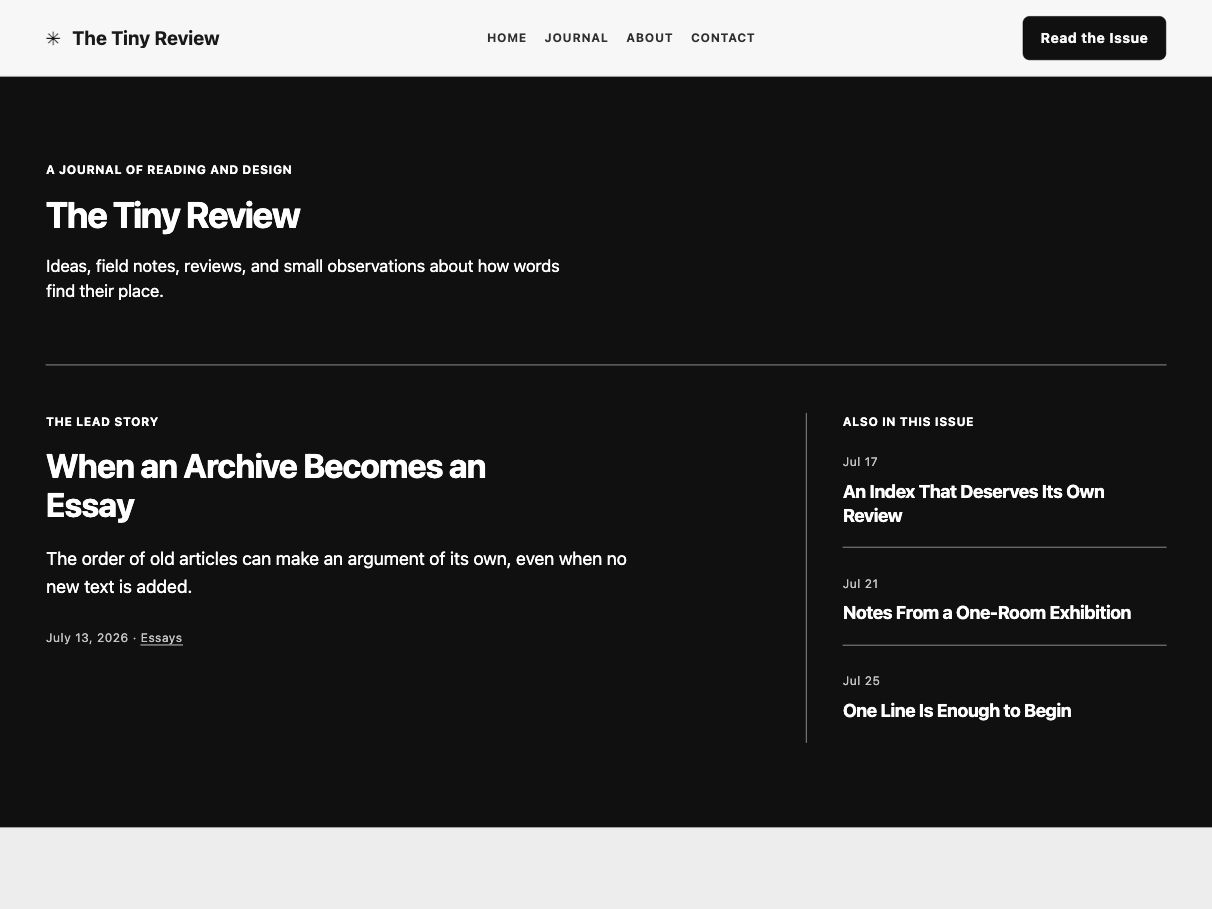
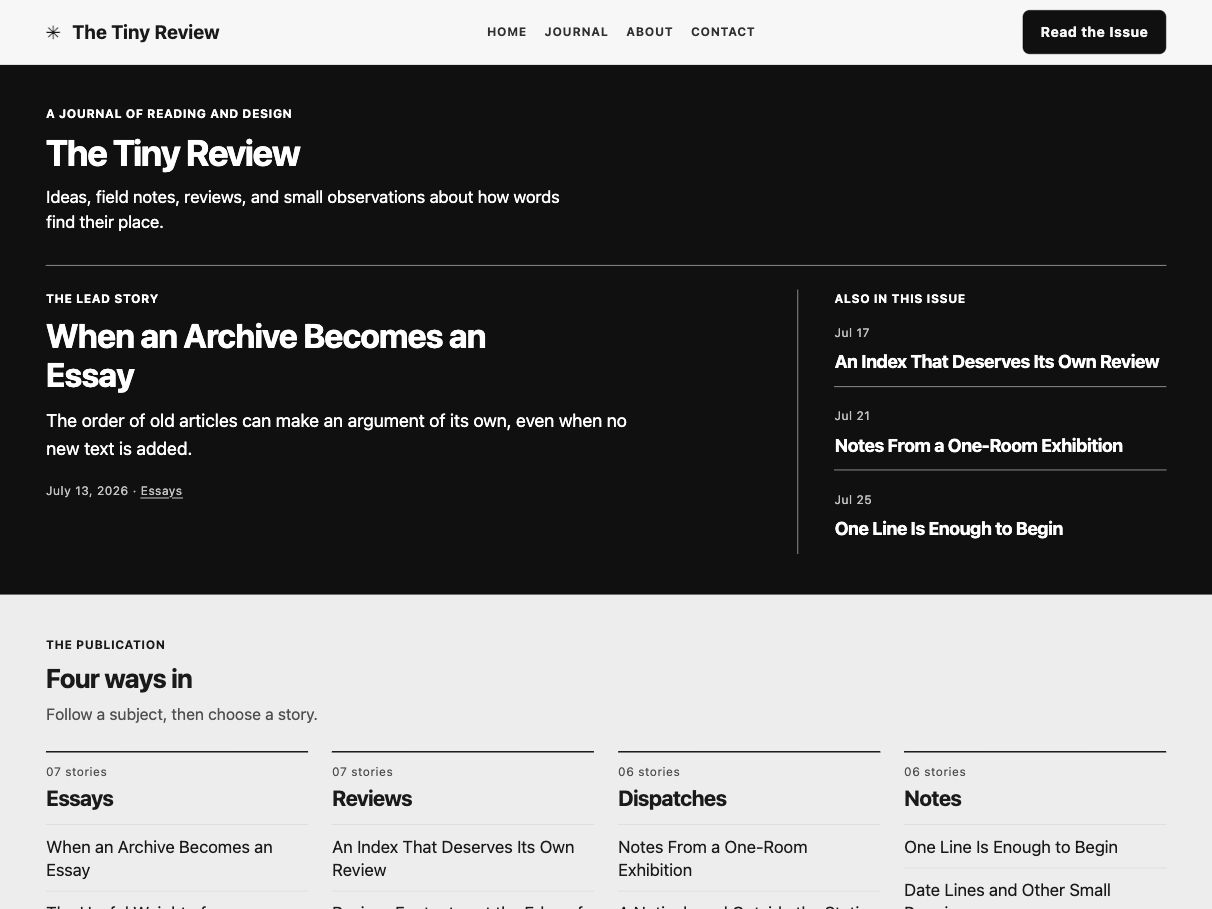
Tighten Classic editorial spacing

diff --git a/style.css b/style.css
@@ -1,7 +1,7 @@
 /*
 Theme Name: Editorial Classic
 Description: A text-only classic editorial theme with black, white, and grey typography and nine article-led home sections.
-Version: 1.4.2
+Version: 1.4.3
 Author: bin zhan
 Text Domain: editorialclassic
 Domain Path: /languages
@@ -35,8 +35,8 @@ Tags: blog, education, news, custom-menu, footer-widgets, right-sidebar, threade
 	--tec-gutter: clamp(1.25rem, 4vw, 2rem);
 	--tec-container: 1120px;
 	--tec-content: 700px;
-	--tec-section: clamp(1.75rem, 4vw, 2.75rem);
-	--tec-section-tight: clamp(1rem, 2.5vw, 1.75rem);
+	--tec-section: clamp(1.25rem, 2.7vw, 2rem);
+	--tec-section-tight: clamp(.85rem, 1.8vw, 1.3rem);
 	--tec-radius-sm: 3px;
 	--tec-radius-md: 7px;
 	--tec-radius-lg: 8px;
@@ -87,7 +87,7 @@ small, .entry-meta, .entry-footer, .breadcrumbs, .editorial-kicker { font-size: 
 	5. Header / navigation
 ---------------------------------------------------------------------------- */
 .site-header { position: sticky; top: 0; z-index: 900; background: rgba(247,247,247,.94); border-bottom: 1px solid var(--tec-rule); backdrop-filter: blur(10px); }
-.header-inner { height: 76px; display: flex; align-items: center; justify-content: space-between; gap: 1.2rem; position: relative; }
+.header-inner { height: 64px; display: flex; align-items: center; justify-content: space-between; gap: 1.2rem; position: relative; }
 .site-logo { display: inline-flex; align-items: center; gap: .72rem; min-width: 0; color: var(--tec-ink); text-decoration: none; font-size: 1.2rem; white-space: nowrap; }
 .site-logo-text { min-width: 0; overflow: hidden; color: inherit; text-decoration: none; text-overflow: ellipsis; white-space: nowrap; }
 .custom-logo-link { display: inline-flex; align-items: center; }
@@ -112,7 +112,7 @@ small, .entry-meta, .entry-footer, .breadcrumbs, .editorial-kicker { font-size: 
 .mobile-toggle.is-open span:nth-child(3) { transform: translateY(-7px) rotate(-45deg); }
 
 @media (max-width: 1120px) {
-	.header-inner { height: 66px; }
+	.header-inner { height: 60px; }
 	html.no-js .header-inner { height: auto; flex-wrap: wrap; padding-block: .85rem; }
 	html.no-js .primary-menu { flex-basis: 100%; order: 3; }
 	html.js .mobile-toggle { display: inline-flex; position: relative; z-index: 1220; }
@@ -205,11 +205,11 @@ small, .entry-meta, .entry-footer, .breadcrumbs, .editorial-kicker { font-size: 
 .widget .wp-block-search__input { min-width: 0; }
 .widget .wp-block-search__button { margin-left: 0; }
 .footer-widget-grid .widget li { border-bottom-color: rgba(255,255,255,.12); }
-.site-footer { background: var(--tec-black); color: var(--tec-white); margin-top: var(--tec-section); }
-.footer-main { padding: clamp(3rem, 6vw, 5rem) 0 2rem; }
+.site-footer { background: var(--tec-black); color: var(--tec-white); margin-top: 0; }
+.footer-main { padding: clamp(2rem, 3.5vw, 3rem) 0 1.5rem; }
 .footer-grid { display: grid; grid-template-columns: 2fr 1fr 1fr; gap: clamp(1.8rem, 4vw, 3.5rem); }
 .footer-widget-grid { display: grid; grid-template-columns: 1.2fr 1fr 1fr; gap: clamp(1.8rem, 4vw, 3.5rem); }
-.footer-widget-area { margin-top: 3rem; padding-top: 2rem; border-top: 1px solid rgba(255,255,255,.14); }
+.footer-widget-area { margin-top: 2rem; padding-top: 1.5rem; border-top: 1px solid rgba(255,255,255,.14); }
 .footer-brand-name, .footer-col-title, .footer-label, .footer-widget-grid .widget-title { color: var(--tec-white); }
 .footer-brand-desc, .footer-address, .footer-links a, .footer-nav a, .footer-widget-grid .widget, .footer-widget-grid a, .footer-contact-link { color: rgba(247,247,247,.82); }
 .footer-links ul, .footer-nav ul, .social-navigation ul { list-style: none; margin: 0; padding: 0; }
@@ -1346,7 +1346,7 @@ html, body { max-width: 100%; overflow-x: hidden; }
 	--story-cover: #101010;
 	--story-cover-ink: #fff;
 }
-.home-showcase .editorial-section { padding-block: clamp(4rem, 7vw, 7rem); }
+.home-showcase .editorial-section { padding-block: clamp(2.25rem, 3.4vw, 3rem); }
 .home-showcase .editorial-section__inner { min-width: 0; }
 .home-showcase .story-departments,
 .home-showcase .story-conversation { background: #ededed; }
@@ -1371,77 +1371,77 @@ html, body { max-width: 100%; overflow-x: hidden; }
 .home-showcase a { color: inherit; text-decoration: none; }
 .home-showcase a:hover { color: var(--story-accent); text-decoration: underline; text-underline-offset: .16em; }
 .story-kicker, .story-meta, .story-number, .story-department__count { font-size: .75rem; line-height: 1.4; letter-spacing: .045em; }
-.story-kicker { margin: 0 0 1rem; color: var(--story-accent); font-weight: 700; text-transform: uppercase; }
+.story-kicker { margin: 0 0 .6rem; color: var(--story-accent); font-weight: 700; text-transform: uppercase; }
 .story-meta, .story-department__count { color: var(--tec-muted); }
 .story-meta a { color: inherit; text-decoration: underline; text-underline-offset: .15em; }
 .story-number { color: var(--story-accent); font-weight: 700; font-variant-numeric: tabular-nums; }
-.story-section-head { max-width: 48rem; margin: 0 0 clamp(2rem, 4vw, 3.5rem); }
+.story-section-head { max-width: 48rem; margin: 0 0 clamp(1.25rem, 2vw, 2rem); }
 .story-section-head h2 { font-size: clamp(1.55rem, 2.2vw, 1.9rem); line-height: 1.15; }
-.story-section-head > p:last-child { max-width: 55ch; margin: .9rem 0 0; color: var(--tec-muted); font-size: 1rem; line-height: 1.55; }
+.story-section-head > p:last-child { max-width: 55ch; margin: .55rem 0 0; color: var(--tec-muted); font-size: 1rem; line-height: 1.55; }
 .story-cover { background: var(--story-cover); color: var(--story-cover-ink); }
-.story-cover__masthead { max-width: 55rem; padding-bottom: clamp(2.5rem, 5vw, 4rem); }
+.story-cover__masthead { max-width: 55rem; padding-bottom: clamp(1.5rem, 2.5vw, 2.25rem); }
 .story-cover__masthead h1 { font-size: clamp(2rem, 3vw, 2.5rem); line-height: 1.1; letter-spacing: -.035em; }
-.story-cover__masthead > p:last-child { max-width: 50ch; margin: 1.2rem 0 0; font-size: clamp(1rem, 1.4vw, 1.1rem); line-height: 1.5; }
-.story-cover__grid { display: grid; grid-template-columns: minmax(0, 1.65fr) minmax(15rem, .85fr); gap: clamp(2rem, 5vw, 5rem); border-top: 1px solid currentColor; padding-top: clamp(2rem, 4vw, 3rem); }
+.story-cover__masthead > p:last-child { max-width: 50ch; margin: .75rem 0 0; font-size: clamp(1rem, 1.4vw, 1.1rem); line-height: 1.5; }
+.story-cover__grid { display: grid; grid-template-columns: minmax(0, 1.65fr) minmax(15rem, .85fr); gap: clamp(1.5rem, 3vw, 3rem); border-top: 1px solid currentColor; padding-top: clamp(1.25rem, 2vw, 1.75rem); }
 .story-cover__lead h2 { max-width: 22ch; font-size: clamp(1.75rem, 2.8vw, 2.1rem); line-height: 1.15; }
-.story-cover__lead > p:not(.story-kicker) { max-width: 52ch; margin: 1.35rem 0; font-size: 1.125rem; line-height: 1.55; }
+.story-cover__lead > p:not(.story-kicker) { max-width: 52ch; margin: .8rem 0; font-size: 1.125rem; line-height: 1.55; }
 .story-cover .story-meta { color: inherit; opacity: .75; }
 .story-cover__rail { border-left: 1px solid currentColor; padding-left: clamp(1.5rem, 3vw, 2.5rem); }
-.story-cover__rail article { padding: 1.25rem 0; border-top: 1px solid currentColor; }
+.story-cover__rail article { padding: .8rem 0; border-top: 1px solid currentColor; }
 .story-cover__rail article:first-of-type { border-top: 0; padding-top: 0; }
 .story-cover__rail h3 { margin-top: .35rem; font-size: clamp(1rem, 1.5vw, 1.2rem); line-height: 1.3; }
-.story-departments__grid { display: grid; grid-template-columns: repeat(4, minmax(0, 1fr)); gap: clamp(1.2rem, 3vw, 2rem); }
-.story-department { border-top: 2px solid var(--story-accent); padding-top: 1rem; min-width: 0; }
-.story-department__count { margin: 0 0 .7rem; }
+.story-departments__grid { display: grid; grid-template-columns: repeat(4, minmax(0, 1fr)); gap: clamp(1rem, 2vw, 1.5rem); }
+.story-department { border-top: 2px solid var(--story-accent); padding-top: .7rem; min-width: 0; }
+.story-department__count { margin: 0 0 .4rem; }
 .story-department h3 { font-size: 1.35rem; }
-.story-department ol { list-style: none; margin: 1.5rem 0 0; padding: 0; }
-.story-department li { border-top: 1px solid var(--tec-rule); padding: .85rem 0; line-height: 1.38; }
-.story-dossier__grid { display: grid; grid-template-columns: minmax(0, 1.2fr) minmax(0, 1fr); gap: clamp(2rem, 5vw, 5rem); }
-.story-dossier__feature { border-top: 3px solid var(--story-accent); padding-top: 1.2rem; }
-.story-dossier__feature h3 { max-width: 22ch; margin: .8rem 0 1rem; font-size: clamp(1.55rem, 2.5vw, 1.9rem); line-height: 1.2; }
+.story-department ol { list-style: none; margin: .9rem 0 0; padding: 0; }
+.story-department li { border-top: 1px solid var(--tec-rule); padding: .6rem 0; line-height: 1.38; }
+.story-dossier__grid { display: grid; grid-template-columns: minmax(0, 1.2fr) minmax(0, 1fr); gap: clamp(1.5rem, 3vw, 3rem); }
+.story-dossier__feature { border-top: 3px solid var(--story-accent); padding-top: .8rem; }
+.story-dossier__feature h3 { max-width: 22ch; margin: .55rem 0 .65rem; font-size: clamp(1.55rem, 2.5vw, 1.9rem); line-height: 1.2; }
 .story-dossier__feature p { max-width: 48ch; margin: 0; font-size: 1.0625rem; }
-.story-dossier__related article { display: grid; grid-template-columns: 2rem minmax(0, 1fr); gap: 1rem; border-top: 1px solid var(--tec-rule-strong); padding: 1rem 0; }
+.story-dossier__related article { display: grid; grid-template-columns: 2rem minmax(0, 1fr); gap: .7rem; border-top: 1px solid var(--tec-rule-strong); padding: .7rem 0; }
 .story-dossier__related h3 { font-size: 1.125rem; line-height: 1.28; }
 .story-dossier__related p { margin: .35rem 0 0; color: var(--tec-muted); font-size: .9375rem; }
 .story-reviews__grid { display: grid; grid-template-columns: repeat(3, minmax(0, 1fr)); gap: clamp(1.3rem, 3vw, 2.5rem); }
-.story-reviews__grid article { min-width: 0; border-top: 1px solid var(--tec-ink); padding-top: 1rem; }
-.story-reviews__grid h3 { margin: 1rem 0 .8rem; font-size: clamp(1.2rem, 1.8vw, 1.5rem); line-height: 1.25; }
-.story-reviews__grid article > p { min-height: 5.2em; margin: 0 0 1.25rem; color: var(--tec-ink-soft); }
+.story-reviews__grid article { min-width: 0; border-top: 1px solid var(--tec-ink); padding-top: .7rem; }
+.story-reviews__grid h3 { margin: .6rem 0 .5rem; font-size: clamp(1.2rem, 1.8vw, 1.5rem); line-height: 1.25; }
+.story-reviews__grid article > p { min-height: 4.2em; margin: 0 0 .8rem; color: var(--tec-ink-soft); }
 .story-dispatches__list, .story-route__list, .story-archive__list { list-style: none; margin: 0; padding: 0; }
 .story-dispatches__list { max-width: 60rem; border-top: 1px solid var(--tec-rule-strong); }
-.story-dispatches__list li { display: grid; grid-template-columns: 5rem minmax(0, 1fr) 2rem; gap: clamp(1rem, 3vw, 2.5rem); align-items: baseline; border-bottom: 1px solid var(--tec-rule-strong); padding: 1.35rem 0; }
+.story-dispatches__list li { display: grid; grid-template-columns: 5rem minmax(0, 1fr) 2rem; gap: clamp(1rem, 2vw, 1.75rem); align-items: baseline; border-bottom: 1px solid var(--tec-rule-strong); padding: .85rem 0; }
 .story-dispatches__list time { font-size: .875rem; font-weight: 700; white-space: nowrap; }
 .story-dispatches__list h3 { font-size: clamp(1.05rem, 1.5vw, 1.3rem); }
 .story-dispatches__list p { margin: .4rem 0 0; color: var(--tec-muted); font-size: .9375rem; }
 .story-dispatches__list li > span:last-child { color: var(--story-accent); text-align: right; }
 .story-notes__grid { display: grid; grid-template-columns: repeat(3, minmax(0, 1fr)); gap: 0 clamp(1.5rem, 3vw, 3rem); }
-.story-notes__grid article { min-width: 0; border-top: 1px solid var(--tec-rule-strong); padding: 1.25rem 0 1.75rem; }
-.story-notes__grid h3 { margin: 1rem 0 .55rem; font-size: 1.2rem; line-height: 1.25; }
+.story-notes__grid article { min-width: 0; border-top: 1px solid var(--tec-rule-strong); padding: .8rem 0 1rem; }
+.story-notes__grid h3 { margin: .6rem 0 .4rem; font-size: 1.2rem; line-height: 1.25; }
 .story-notes__grid p { margin: 0; color: var(--tec-muted); font-size: .9375rem; }
 .story-conversation__grid { display: grid; grid-template-columns: repeat(2, minmax(0, 1fr)); gap: clamp(1.5rem, 4vw, 4rem); }
-.story-conversation__grid article { border-top: 2px solid var(--story-accent); padding-top: 1.2rem; }
-.story-conversation__grid h3 { max-width: 24ch; margin: .7rem 0 1rem; font-size: clamp(1.45rem, 2.2vw, 1.8rem); line-height: 1.2; }
+.story-conversation__grid article { border-top: 2px solid var(--story-accent); padding-top: .8rem; }
+.story-conversation__grid h3 { max-width: 24ch; margin: .5rem 0 .65rem; font-size: clamp(1.45rem, 2.2vw, 1.8rem); line-height: 1.2; }
 .story-conversation__grid p { max-width: 44ch; margin: 0; }
 .story-route__list { max-width: 54rem; counter-reset: route; }
-.story-route__list li { display: grid; grid-template-columns: 3rem minmax(0, 1fr) 2rem; gap: clamp(1rem, 3vw, 2rem); align-items: center; padding: 1.15rem 0; border-top: 1px solid var(--tec-rule-strong); }
+.story-route__list li { display: grid; grid-template-columns: 3rem minmax(0, 1fr) 2rem; gap: clamp(.8rem, 2vw, 1.5rem); align-items: center; padding: .75rem 0; border-top: 1px solid var(--tec-rule-strong); }
 .story-route__list li:last-child { border-bottom: 1px solid var(--tec-rule-strong); }
 .story-route__list .story-number { font-size: 1.35rem; }
 .story-route__list h3 { margin: .25rem 0 0; font-size: clamp(1.05rem, 1.5vw, 1.3rem); }
 .story-route__list li > span:last-child { color: var(--story-accent); text-align: right; }
 .story-archive__list { border-top: 1px solid var(--tec-rule-strong); }
-.story-archive__list li { display: grid; grid-template-columns: 7rem 8rem minmax(0, 1fr); gap: 1.25rem; align-items: baseline; padding: .75rem 0; border-bottom: 1px solid var(--tec-rule); }
+.story-archive__list li { display: grid; grid-template-columns: 7rem 8rem minmax(0, 1fr); gap: 1rem; align-items: baseline; padding: .55rem 0; border-bottom: 1px solid var(--tec-rule); }
 .story-archive__list time, .story-archive__list li > span { color: var(--tec-muted); font-size: .875rem; font-variant-numeric: tabular-nums; }
 .story-archive__list a { font-weight: 600; }
-.story-archive__more { margin: 1.5rem 0 0; font-weight: 700; }
+.story-archive__more { margin: 1rem 0 0; font-weight: 700; }
 @media (max-width: 900px) {
 	.story-departments__grid { grid-template-columns: repeat(2, minmax(0, 1fr)); }
 	.story-reviews__grid, .story-notes__grid { grid-template-columns: repeat(2, minmax(0, 1fr)); }
 }
 @media (max-width: 680px) {
-	.home-showcase .editorial-section { padding-block: 3.5rem; }
+	.home-showcase .editorial-section { padding-block: 1.75rem; }
 	.story-cover__grid, .story-dossier__grid, .story-conversation__grid { grid-template-columns: 1fr; }
-	.story-cover__rail { border-left: 0; border-top: 1px solid currentColor; padding: 1.25rem 0 0; }
-	.story-cover__rail article:first-of-type { padding-top: 1.25rem; }
+	.story-cover__rail { border-left: 0; border-top: 1px solid currentColor; padding: .8rem 0 0; }
+	.story-cover__rail article:first-of-type { padding-top: .8rem; }
 	.story-reviews__grid, .story-notes__grid { grid-template-columns: 1fr; }
 	.story-reviews__grid article > p { min-height: 0; }
 	.story-dispatches__list li { grid-template-columns: 4rem minmax(0, 1fr); }

diff --git a/functions.php b/functions.php
@@ -10,7 +10,7 @@ if ( ! defined( 'ABSPATH' ) ) {
 }
 
 if ( ! defined( 'TINY_EDITORIAL_VERSION' ) ) {
-	define( 'TINY_EDITORIAL_VERSION', '1.4.2' );
+	define( 'TINY_EDITORIAL_VERSION', '1.4.3' );
 }
 
 if ( ! defined( 'TINY_EDITORIAL_DIR' ) ) {

diff --git a/README.md b/README.md
@@ -19,10 +19,10 @@ This edition uses system fonts and a monochrome rhythm of deep black, charcoal, 
 
 ## Install
 
-Upload `build/editorialclassic-1.4.2.zip` through WordPress Network Admin, enable it for the intended site, then activate it there. Choose a static front page using the **Long Editorial Home** page template. Posts, page content, menus, and Customizer settings belong to the WordPress site and are separate from the theme package.
+Upload `build/editorialclassic-1.4.3.zip` through WordPress Network Admin, enable it for the intended site, then activate it there. Choose a static front page using the **Long Editorial Home** page template. Posts, page content, menus, and Customizer settings belong to the WordPress site and are separate from the theme package.
 
 The theme uses system fonts, produces no automatic featured images, and does not request external font files. It provides Classic Editor starter HTML in `starter-html/`. See `docs/user-manual-zh.md` for page and template usage.
 
 ## Source and validation
 
-The theme source is in this directory. `site-content/` contains local import files and is excluded from Git. The 1.4.2 source was checked with PHP syntax validation, Stylelint, JavaScript syntax checking, WordPress Studio runtime pages, and desktop/mobile overflow checks. Historical development notes under `docs/` describe earlier versions and should not be read as current release acceptance.
+The theme source is in this directory. `site-content/` contains local import files and is excluded from Git. The 1.4.3 source was checked with PHP syntax validation, Stylelint, JavaScript syntax checking, WordPress Studio runtime pages, and desktop/mobile overflow checks. Historical development notes under `docs/` describe earlier versions and should not be read as current release acceptance.
